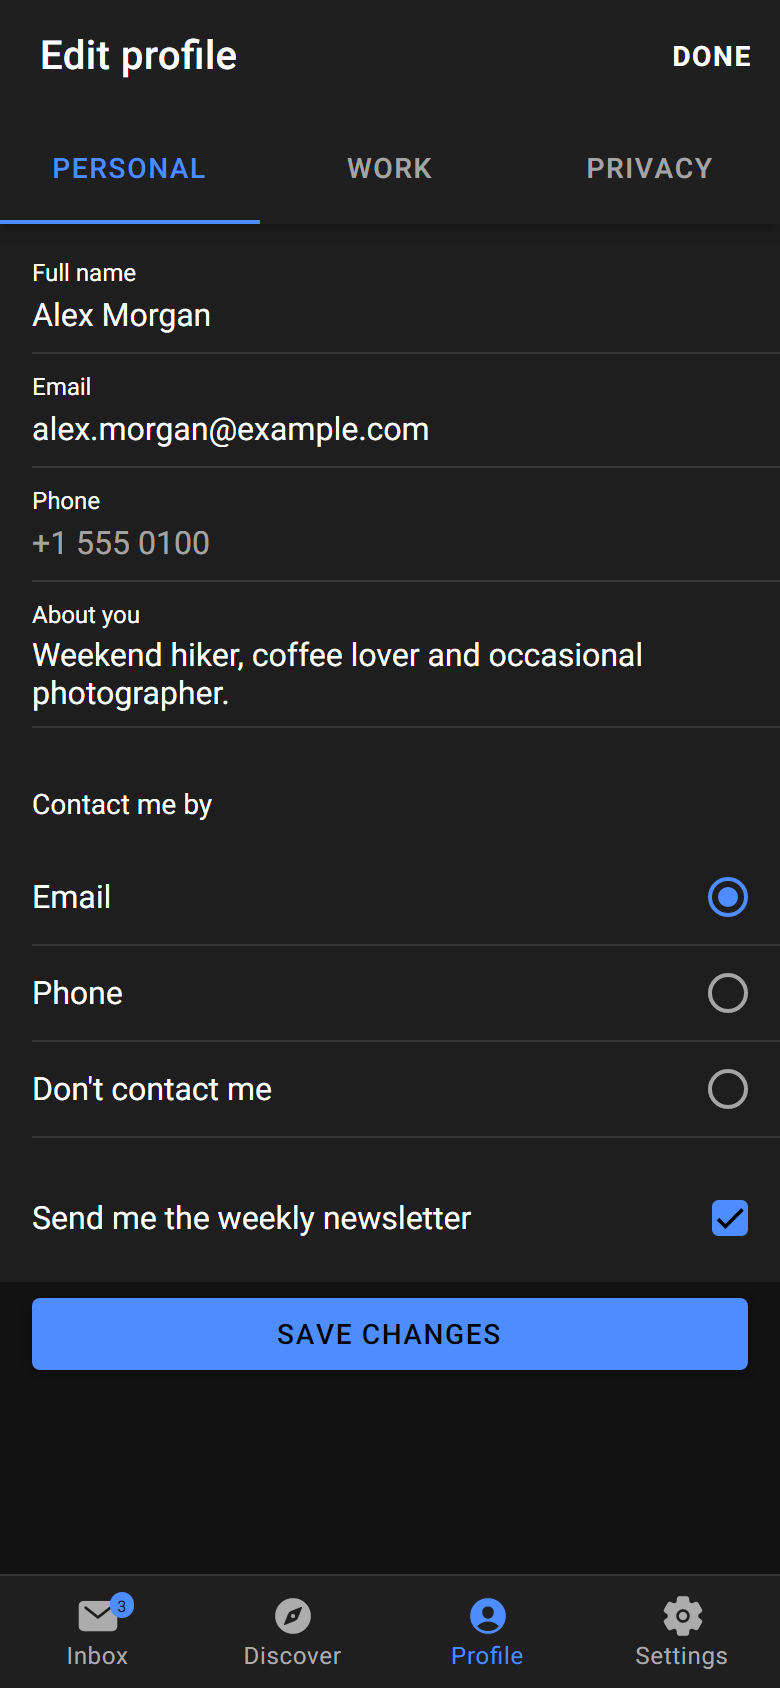
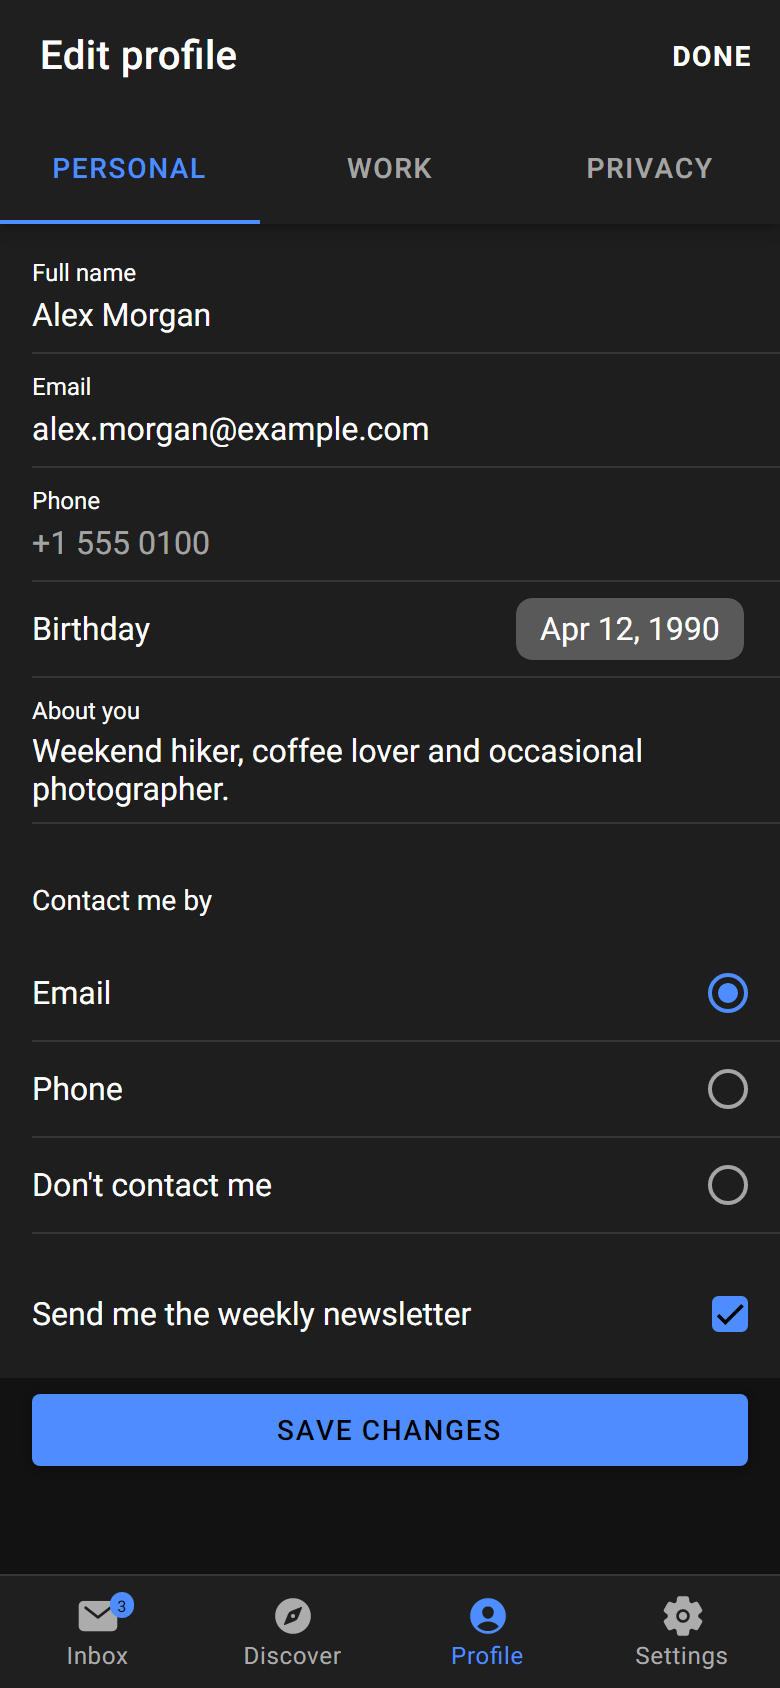
docs: pictures regenerated, the new pages in PREVIEW.md's gallery, README's status

diff --git a/PREVIEW.md b/PREVIEW.md
@@ -1,9 +1,10 @@
 # Avonic preview
 
 What Avonic looks like: Ionic's md mode, recreated for Avalonia. Every picture here is a real frame, rendered headless by
-Avalonia with Skia at 390 × 844 and a scale of 2, a phone's size. Nothing is mocked up or retouched; the one thing the capture
-does is swipe a message open in the inbox, through `AvonicItemSliding.Open()`. The font is Roboto, from `tools/fonts/roboto/`,
-as the sample has it. They're headless frames, not screenshots of a device or a window.
+Avalonia with Skia at 390 × 844 and a scale of 2, a phone's size. Nothing is mocked up or retouched; all the capture does is
+swipe a message open in the inbox, through `AvonicItemSliding.Open()`, and for the two screens the inbox opens, open the menu
+(`AvonicMenu.Open()`) or tap a message (its item's `Click`). The font is Roboto, from `tools/fonts/roboto/`, as the sample has
+it. They're headless frames, not screenshots of a device or a window.
 
 ## Showcase
 
@@ -22,7 +23,7 @@ code. Dark is Ionic's own dark palette, `avares://Avonic.Themes/Tokens/Palettes/
   <tr>
     <td><img src="docs/preview/showcase-inbox-light.png" width="200" alt="Inbox, light: a searchbar, messages with avatars, notes and badges, one swiped open" /></td>
     <td><img src="docs/preview/showcase-discover-light.png" width="200" alt="Discover, light: chips, cards with pictures and actions, a fab" /></td>
-    <td><img src="docs/preview/showcase-profile-light.png" width="200" alt="Profile, light: a segment, inputs, a textarea, radios, a checkbox and a block button" /></td>
+    <td><img src="docs/preview/showcase-profile-light.png" width="200" alt="Profile, light: a segment, inputs, a datetime button, a textarea, radios, a checkbox and a block button" /></td>
     <td><img src="docs/preview/showcase-settings-light.png" width="200" alt="Settings, light: toggles, a range, a select, notes, a badge and a progress bar" /></td>
   </tr>
   <tr>
@@ -33,17 +34,37 @@ code. Dark is Ionic's own dark palette, `avares://Avonic.Themes/Tokens/Palettes/
   </tr>
 </table>
 
+What the inbox opens:
+
+<table>
+  <tr>
+    <th>Menu</th>
+    <th>Message</th>
+    <th>Menu, dark</th>
+    <th>Message, dark</th>
+  </tr>
+  <tr>
+    <td><img src="docs/preview/showcase-menu-light.png" width="200" alt="Menu, light: a side menu over the inbox, with a toolbar and a list of mail folders" /></td>
+    <td><img src="docs/preview/showcase-message-light.png" width="200" alt="Message, light: a message pushed on the inbox, with a back button in its toolbar" /></td>
+    <td><img src="docs/preview/showcase-menu-dark.png" width="200" alt="Menu, dark" /></td>
+    <td><img src="docs/preview/showcase-message-dark.png" width="200" alt="Message, dark" /></td>
+  </tr>
+</table>
+
 What's in them:
 
-- **Inbox:** a header with two toolbars, the second holding `ion-searchbar`; `ion-list` of `ion-item-sliding` messages, each an
-  `ion-item` with an `ion-avatar` (an `ion-img`, or initials on one of the palette's colours), an `ion-label` with `h2`, `h3` and
-  `p`, an `ion-note` and an `ion-badge`. One is swiped open to show its `ion-item-option`s, whose More opens an
-  `ion-action-sheet`. `ion-tabs` with an `ion-tab-bar` at the bottom, and a badge on a tab button.
+- **Inbox:** the root of an `ion-nav`, with a header with two toolbars, the first holding an `ion-menu-button` and the second
+  `ion-searchbar`; `ion-list` of `ion-item-sliding` messages, each an `ion-item` with an `ion-avatar` (an `ion-img`, or initials
+  on one of the palette's colours), an `ion-label` with `h2`, `h3` and `p`, an `ion-note` and an `ion-badge`. One is swiped open
+  to show its `ion-item-option`s, whose More opens an `ion-action-sheet`, and whose Archive, on the other side, shows an
+  `ion-toast` above the tab bar. `ion-tabs` with an `ion-tab-bar` at the bottom, and a badge on a tab button.
+- **Menu:** the menu button opens an `ion-menu` over the tabs, a list of `ion-menu-toggle`d items, each closing it.
+- **Message:** a tap on a message pushes it on the nav, with an `ion-back-button` in its toolbar, which pops it.
 - **Discover:** `ion-chip`s with icons, `ion-card`s with an `ion-img`, an `ion-card-header` (title and subtitle),
   `ion-card-content` and clear `ion-button`s with icons, a card whose author is an `ion-item`, and an `ion-fab` in the
   content's fixed slot.
-- **Profile:** an `ion-segment` in the header, `ion-input`s with floating and stacked labels, an `ion-textarea` that grows with
-  its text, an `ion-radio-group` under an `ion-list-header`, an `ion-checkbox`, and a block `ion-button`, which opens an
+- **Profile:** an `ion-segment` in the header, `ion-input`s with floating and stacked labels, an `ion-datetime-button` for the
+  birthday, whose `ion-datetime` is in an `ion-modal`, an `ion-textarea` that grows with its text, an `ion-radio-group` under an `ion-list-header`, an `ion-checkbox`, and a block `ion-button`, which opens an
   `ion-alert`.
 - **Settings:** items with icons at the start, `ion-toggle`s, an `ion-range` between two icons, an `ion-select` for the language
   (a popover), `ion-note`s for current values, an `ion-progress-bar`, and items with the detail chevron.
@@ -121,19 +142,29 @@ shows the machine it runs on.
     <td align="center"><img src="docs/preview/pages/ion-picker.png" width="200" alt="ion-picker" /><br /><a href="docs/components/ion-picker/README.md"><code>ion-picker</code> and its columns</a></td>
   </tr>
   <tr>
+    <td align="center"><img src="docs/preview/pages/ion-toast.png" width="200" alt="ion-toast" /><br /><a href="docs/components/ion-toast/README.md"><code>ion-toast</code></a></td>
     <td align="center"><img src="docs/preview/pages/ion-alert.png" width="200" alt="ion-alert" /><br /><a href="docs/components/ion-alert/README.md"><code>ion-alert</code></a></td>
     <td align="center"><img src="docs/preview/pages/ion-action-sheet.png" width="200" alt="ion-action-sheet" /><br /><a href="docs/components/ion-action-sheet/README.md"><code>ion-action-sheet</code></a></td>
+  </tr>
+  <tr>
+    <td align="center"><img src="docs/preview/pages/ion-loading.png" width="200" alt="ion-loading" /><br /><a href="docs/components/ion-loading/README.md"><code>ion-loading</code></a></td>
     <td align="center"><img src="docs/preview/pages/ion-modal.png" width="200" alt="ion-modal" /><br /><a href="docs/components/ion-modal/README.md"><code>ion-modal</code></a> and its sheet</td>
-  </tr>
-  <tr>
     <td align="center"><img src="docs/preview/pages/ion-popover.png" width="200" alt="ion-popover" /><br /><a href="docs/components/ion-popover/README.md"><code>ion-popover</code></a></td>
-    <td align="center"><img src="docs/preview/pages/ion-select.png" width="200" alt="ion-select" /><br /><a href="docs/components/ion-select/README.md"><code>ion-select</code></a>, <a href="docs/components/ion-select-option/README.md"><code>ion-select-option</code></a>, <a href="docs/components/ion-select-modal/README.md"><code>ion-select-modal</code></a></td>
-    <td align="center"><img src="docs/preview/pages/ion-app.png" width="200" alt="ion-app" /><br /><a href="docs/components/ion-app/README.md"><code>ion-app</code></a></td>
   </tr>
   <tr>
+    <td align="center"><img src="docs/preview/pages/ion-menu.png" width="200" alt="ion-menu" /><br /><a href="docs/components/ion-menu/README.md"><code>ion-menu</code></a>, <a href="docs/components/ion-menu-button/README.md"><code>ion-menu-button</code></a>, <a href="docs/components/ion-menu-toggle/README.md"><code>ion-menu-toggle</code></a></td>
+    <td align="center"><img src="docs/preview/pages/ion-select.png" width="200" alt="ion-select" /><br /><a href="docs/components/ion-select/README.md"><code>ion-select</code></a>, <a href="docs/components/ion-select-option/README.md"><code>ion-select-option</code></a>, <a href="docs/components/ion-select-modal/README.md"><code>ion-select-modal</code></a></td>
+    <td align="center"><img src="docs/preview/pages/ion-datetime.png" width="200" alt="ion-datetime" /><br /><a href="docs/components/ion-datetime/README.md"><code>ion-datetime</code></a></td>
+  </tr>
+  <tr>
+    <td align="center"><img src="docs/preview/pages/ion-back-button.png" width="200" alt="ion-back-button" /><br /><a href="docs/components/ion-back-button/README.md"><code>ion-back-button</code></a></td>
+    <td align="center"><img src="docs/preview/pages/ion-app.png" width="200" alt="ion-app" /><br /><a href="docs/components/ion-app/README.md"><code>ion-app</code></a></td>
     <td align="center"><img src="docs/preview/pages/typography.png" width="200" alt="Ionic's typography, opt-in" /><br /><a href="docs/infra/typography/README.md">typography</a></td>
-    <td></td>
-    <td></td>
+  </tr>
+  <tr>
+    <td align="center"><img src="docs/preview/pages/ion-split-pane.png" width="200" alt="ion-split-pane" /><br /><a href="docs/components/ion-split-pane/README.md"><code>ion-split-pane</code></a></td>
+    <td align="center"><img src="docs/preview/pages/ion-datetime-button.png" width="200" alt="ion-datetime-button" /><br /><a href="docs/components/ion-datetime-button/README.md"><code>ion-datetime-button</code></a></td>
+    <td align="center"><img src="docs/preview/pages/ion-nav.png" width="200" alt="ion-nav" /><br /><a href="docs/components/ion-nav/README.md"><code>ion-nav</code>, <code>ion-nav-link</code></a></td>
   </tr>
 </table>
 

diff --git a/README.md b/README.md
@@ -7,7 +7,7 @@ A faithful recreation of [Ionic Framework](https://ionicframework.com/)'s compon
   <tr>
     <td><img src="docs/preview/showcase-inbox-light.png" width="190" alt="An inbox: a searchbar, messages with avatars, notes and badges, one swiped open" /></td>
     <td><img src="docs/preview/showcase-discover-dark.png" width="190" alt="A feed of cards with pictures, chips and a fab, in dark" /></td>
-    <td><img src="docs/preview/showcase-profile-light.png" width="190" alt="A form: a segment, inputs, a textarea, radios, a checkbox and a button" /></td>
+    <td><img src="docs/preview/showcase-profile-light.png" width="190" alt="A form: a segment, inputs, a datetime button, a textarea, radios, a checkbox and a button" /></td>
     <td><img src="docs/preview/showcase-settings-dark.png" width="190" alt="Settings: toggles, a range, a select, notes and a progress bar, in dark" /></td>
   </tr>
 </table>
@@ -15,14 +15,14 @@ A faithful recreation of [Ionic Framework](https://ionicframework.com/)'s compon
 Built only from Avonic controls, rendered by Avalonia, in light and Ionic's dark palette. More in **[PREVIEW.md](PREVIEW.md)**:
 every screen in both, and a page for each control.
 
-> **Status: in development, with no release yet.** 54 of Ionic's components and families are done, 79 of its elements in all:
-> items and lists, buttons, cards, toolbars, the grid, form controls from checkbox to input and searchbar, segment, tabs, fab,
-> sliding items, accordion, reorder, refresher, infinite scroll, picker, the app's root, `ion-app`, the overlays alert, action
-> sheet, modal (with its sheet) and popover, and select. Each went through every step of
-> [`docs/PROCESS.md`](docs/PROCESS.md). The list, with a link to each one's docs, is in [`CLAUDE.md`](CLAUDE.md#components),
-> rolled up at the end of each tier, so the newest may be missing; the `Status:` line of each `docs/components/<tag>/README.md`
-> is current. Toast, loading, menu, nav, split pane, datetime, datetime button and back button are next, in
-> [`docs/ROADMAP.md`](docs/ROADMAP.md). v1 was reviewed and discarded; see [`docs/LESSONS_LEARNED.md`](docs/LESSONS_LEARNED.md).
+> **Status: in development, with no release yet.** Every component of Ionic 9 is done but the router family, which an Avalonia
+> app's own routing replaces: 62 components and families, 90 elements in all. Items and lists, buttons, cards, toolbars, the
+> grid, form controls from checkbox to input and searchbar, segment, tabs, fab, sliding items, accordion, reorder, refresher,
+> infinite scroll, picker, the app's root, `ion-app`, the overlays toast, alert, action sheet, loading, modal (with its sheet) and
+> popover, select, menu and split pane, nav and back button, datetime and datetime button. Each went through every step of
+> [`docs/PROCESS.md`](docs/PROCESS.md). The list, with a link to each one's docs, is in [`CLAUDE.md`](CLAUDE.md#components);
+> what's out of scope and what comes after is in [`docs/ROADMAP.md`](docs/ROADMAP.md). v1 was reviewed and discarded; see
+> [`docs/LESSONS_LEARNED.md`](docs/LESSONS_LEARNED.md).
 
 ## What "faithful" means here
 
